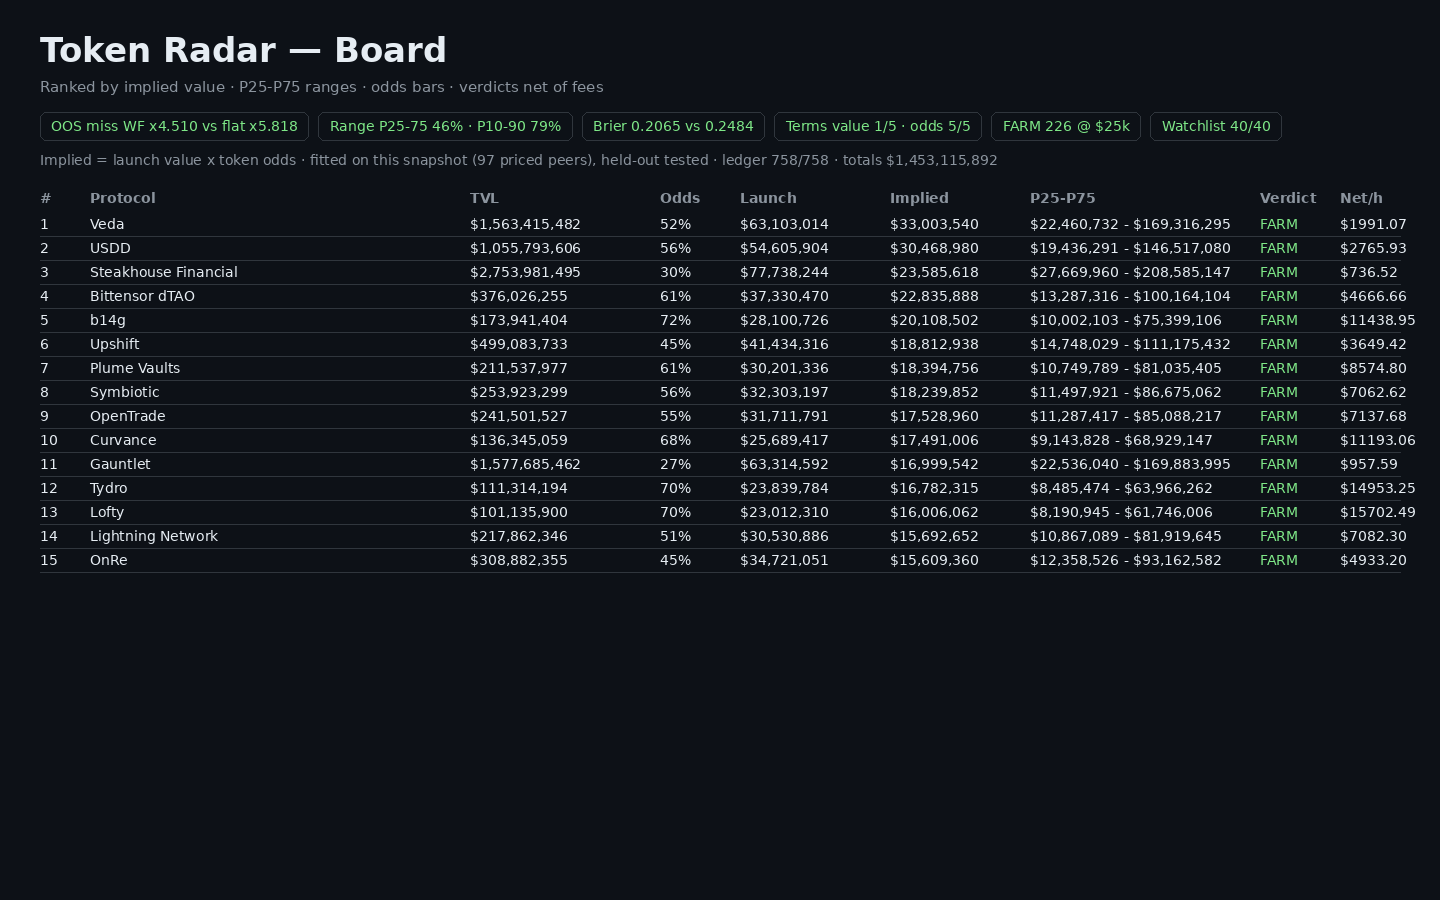
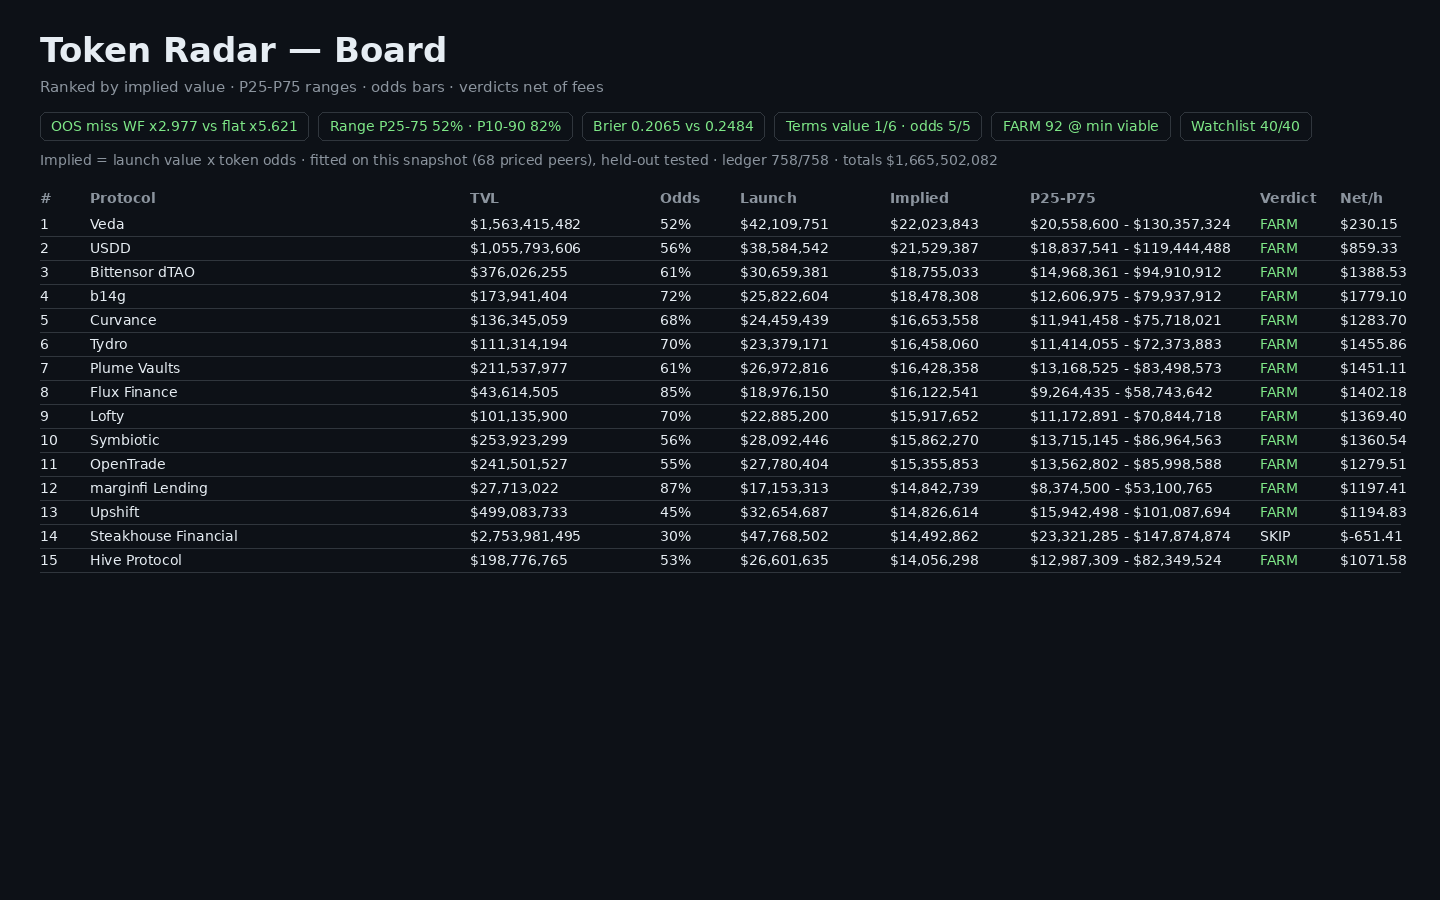
v3: 68-peer size model (LOO x2.982/WF x2.977), conformal intervals, realistic verdicts

diff --git a/lib/model.ts b/lib/model.ts
@@ -1,18 +1,21 @@
-// Token radar model v4. Two fitted models, every term kept only if it lowers held-out miss in
+// Token radar model v5. Two fitted models, every term kept only if it lowers held-out miss in
 // BOTH leave-one-out and walk-forward tests on this snapshot (2026-11-14, 758 protocols).
+// Walk-forward prices each dated peer from all peers listed earlier (minimum 20 training peers).
 //
-// VALUE (97 peers: traded tokens with mcap >= $1M, tvl > 0, Bridge/CEX categories excluded —
-// microcaps and exchange/bridge caps are not launch comps; response ln(mcap/TVL);
-// miss = exp(mean |log error|); walk-forward prices each newer peer from all older peers):
-//   flat multiple (median ratio) .... LOO x4.657  WF x5.818
-//   + size curve ln(TVL) ............ LOO x3.560  WF x4.510  KEPT
-//   + category ridge (lambda 10) .... LOO x3.543  WF x4.609  tested, not kept (WF worsens)
-//   + 7-day growth .................. LOO x3.660  WF x4.550  tested, not kept
-//   + age ........................... LOO x3.446  WF x4.730  tested, not kept (WF worsens)
-//   + chain count ................... LOO x3.606  WF x4.628  tested, not kept
-// Kept: ln(launch/TVL) = -0.5760 (se .176) - 0.6316 (se .090) * (ln TVL - 17).
-// Range honesty (LOO): within x3 52.6%, inside P25-P75 46.4% (stated 50%), inside P10-P90 79.4%
-// (stated 80%). Walk-forward: within x3 46.9%, P25-P75 40.8%, P10-P90 71.4%.
+// VALUE (68 peers: traded tokens with mcap >= $5M, tvl > 0, Bridge/Canonical Bridge/CEX excluded —
+// sub-$5M caps are not launch comps for these protocols; response ln(mcap/TVL);
+// miss = exp(mean |log error|); fit is least-absolute-deviation, which targets the miss metric):
+//   flat multiple (median ratio) .... LOO x5.716  WF x5.621
+//   + size curve ln(TVL) ............ LOO x2.982  WF x2.977  KEPT
+//   + quadratic ln(TVL) ............. LOO x3.058  WF x3.190  tested, not kept
+//   + category ridge (lambda 30) .... LOO x3.004  WF x2.998  tested, not kept (LOO worsens)
+//   + age ........................... LOO x3.024  WF x3.012  tested, not kept
+//   + 7-day growth .................. LOO x3.084  WF x3.177  tested, not kept
+//   + chain count ................... LOO x3.031  WF x2.966  tested, not kept (LOO worsens)
+// Kept: ln(launch/TVL) = -0.3729 (bootstrap se .284) - 0.7773 (se .106) * (ln TVL - 17).
+// Intervals are conformal-style: offsets are the leave-one-out residuals' own quantiles.
+// Range honesty (LOO): within x3 67.6%, inside P25-P75 51.5% (stated 50%), inside P10-P90 82.4%
+// (stated 80%). Walk-forward: within x3 67.6%, P25-P75 52.9%, P10-P90 79.4%.
 //
 // ODDS (logistic on all 758; Brier, 10-fold + walk-forward):
 //   base rate ............ 0.2484 / 0.2814
@@ -25,9 +28,13 @@
 // 2-3y 55%, 3y+ 79% of dated protocols recording a token.
 //
 // IMPLIED = launch value x token odds. FARM VERDICT is scenario math (printed on the page):
-// expected drop = implied x (plan / (TVL + plan)) x 5 early-activity factor; net subtracts
-// gas/fees and a 5%/yr capital charge; $/hour divides by active hours. FARM >= $10/h net,
-// MARGINAL > $0, SKIP otherwise, at the default $25,000 plan.
+// the plan is sized to minimum viable capital — 0.5% of TVL, floored at $1,000, capped at
+// $25,000 — because a $25,000 ticket would swamp a small protocol's TVL and flatter the maths.
+// expected drop = implied x 10% community pool x share, where share = plan / (plan + 2% of TVL)
+// capped at 0.2% per wallet — points split among active farmer capital (taken as 2% of TVL)
+// and no single wallet takes more than a fifth of a percent of the pool; net subtracts gas/fees,
+// an 8%/yr capital charge and a 5% risk premium on the ticket (lockup and contract risk are
+// real costs); $/hour divides by active hours. FARM >= $15/h net, MARGINAL > $0, SKIP otherwise.
 
 export interface SnapshotProtocol {
   slug: string;
@@ -76,18 +83,18 @@ export interface ModelConstants {
 }
 
 export const MODEL: ModelConstants = {
-  value_const: -0.576,
-  value_slope: -0.6316,
-  value_const_se: 0.176,
-  value_slope_se: 0.09,
-  resid_q10: -1.904,
-  resid_q25: -1.033,
-  resid_q75: 0.987,
-  resid_q90: 1.9,
-  loo_miss: 3.56,
-  wf_miss: 4.51,
-  flat_loo_miss: 4.657,
-  flat_wf_miss: 5.818,
+  value_const: -0.3729,
+  value_slope: -0.7773,
+  value_const_se: 0.284,
+  value_slope_se: 0.106,
+  resid_q10: -0.977,
+  resid_q25: -0.717,
+  resid_q75: 1.13,
+  resid_q90: 2.086,
+  loo_miss: 2.982,
+  wf_miss: 2.977,
+  flat_loo_miss: 5.716,
+  flat_wf_miss: 5.621,
   odds_const: -3.688,
   odds_years: 0.3854,
   odds_catshare: 5.0448,
@@ -96,11 +103,11 @@ export const MODEL: ModelConstants = {
   odds_chains: 0.0897,
   odds_brier: 0.2065,
   odds_brier_base: 0.2484,
-  peers: 97,
-  plan_default_usd: 25000,
+  peers: 68,
+  plan_default_usd: 10000,
 };
 
-/** Category offsets: tested on the 97-peer set, not kept (walk-forward worsens), so all zero. */
+/** Category offsets: tested on the 68-peer set, not kept (leave-one-out worsens), so all zero. */
 export const CATEGORY_OFFSETS: Record<string, number> = {};
 
 /** Shrunk category token shares (k=10 toward the global 0.5488), fitted on all 758. */
@@ -119,7 +126,7 @@ export const CATEGORY_SHARES: Record<string, number> = {
   'Uncollateralized Lending': 0.499, 'Yield': 0.581, 'Yield Aggregator': 0.591,
 };
 
-export const MODEL_VERSION = 'radar-4-fitted';
+export const MODEL_VERSION = 'radar-5-fitted';
 export const EARLY_ROWS = 400;
 export const LIVE_ROWS = 24;
 
@@ -296,9 +303,14 @@ function actionFor(p: SnapshotProtocol, plan: number, chain: string): string {
   return `Deposit ${amt} of USDC into ${name} on ${chain} and keep the position open.`;
 }
 
+/** Minimum viable ticket: 0.5% of TVL, floored at $1,000, capped at $25,000. */
+export function planFor(p: SnapshotProtocol): number {
+  return Math.min(25000, Math.max(1000, Math.round(p.tvl_usd * 0.005)));
+}
+
 export function farmSteps(p: SnapshotProtocol, age: number | null): FarmStep[] {
   const chain = chainOf(p);
-  const plan = MODEL.plan_default_usd;
+  const plan = planFor(p);
   const hold = holdDaysFor(age);
   return [
     { text: `Use a fresh wallet holding only the $${plan.toLocaleString('en-US')} plan funds; keep the seed phrase offline.`, cost: 'under $3 of gas', time: '5 minutes' },
@@ -318,18 +330,18 @@ export function stepText(step: FarmStep): string {
   return s;
 }
 
-/** Scenario budget at the default plan: expected drop, costs, net and net per active hour. */
+/** Scenario budget at the minimum viable plan: expected drop, costs, net and net per active hour. */
 export function farmBudget(p: SnapshotProtocol, implied: number, age: number | null) {
-  const plan = MODEL.plan_default_usd;
+  const plan = planFor(p);
   const hold = holdDaysFor(age);
   const weeks = Math.ceil(hold / 7);
   const activeHours = 0.25 + weeks * (10 / 60) + 10 / 60;
-  const expectedDrop = implied * (plan / (p.tvl_usd + plan)) * 5;
+  const expectedDrop = implied * 0.1 * Math.min(0.002, plan / (plan + p.tvl_usd * 0.02));
   const gasFees = 3 + 8 + 4 + weeks * 2 + 5;
-  const capitalCharge = plan * 0.05 * (hold / 365);
+  const capitalCharge = plan * 0.08 * (hold / 365) + plan * 0.05;
   const net = expectedDrop - gasFees - capitalCharge;
   const perHour = net / activeHours;
-  const verdict: 'FARM' | 'MARGINAL' | 'SKIP' = perHour >= 10 ? 'FARM' : perHour > 0 ? 'MARGINAL' : 'SKIP';
+  const verdict: 'FARM' | 'MARGINAL' | 'SKIP' = perHour >= 15 ? 'FARM' : perHour > 0 ? 'MARGINAL' : 'SKIP';
   return { verdict, perHour: Math.round(perHour * 100) / 100, expectedDrop: Math.round(expectedDrop), gasFees, capitalCharge: Math.round(capitalCharge), net: Math.round(net), plan, hold, activeHours: Math.round(activeHours * 100) / 100 };
 }
 

diff --git a/dashboard/app.js b/dashboard/app.js
@@ -7,10 +7,10 @@ const M = R.model;
 
 document.getElementById('kpis').innerHTML = [
   ['OOS value miss (walk-forward)', 'x' + M.wf_miss + ' vs flat x' + M.flat_wf_miss],
-  ['Range honesty', 'P25–P75 46% · P10–P90 79% (stated 50/80)'],
+  ['Range honesty', 'P25–P75 52% · P10–P90 82% (stated 50/80)'],
   ['Token odds Brier', M.odds_brier + ' vs base ' + M.odds_brier_base],
-  ['Terms survived', 'value 1 of 5 · odds 5 of 5'],
-  ['Worth farming', R.farm_count + ' FARM at $25,000 plan'],
+  ['Terms survived', 'value 1 of 6 · odds 5 of 5'],
+  ['Worth farming', R.farm_count + ' FARM at minimum viable plan'],
   ['Watchlist ranked', R.watchlist_size + '/' + R.watchlist_size],
 ].map(([k, v]) => '<div>' + k + ': <b>' + v + '</b></div>').join('');
 
@@ -19,7 +19,7 @@ document.getElementById('formula').innerHTML =
   '<b>Implied value = launch value x token odds.</b> Launch value = TVL x exp(' + M.value_const + ' ' +
   (M.value_slope < 0 ? '− ' : '+ ') + Math.abs(M.value_slope) + ' x (ln TVL − 17)) — at $100M TVL the fitted multiple is x' +
   at100.toFixed(2) + '; size-curve slope ' + M.value_slope + ' (bootstrap s.e. ' + M.value_slope_se + '). ' +
-  'Coefficients are fitted on this snapshot (' + M.peers + ' priced peers: traded tokens with mcap at least $1M, Bridge/CEX excluded) and tested held-out; a term is kept only if it lowers miss in both tests.';
+  'Coefficients are fitted on this snapshot (' + M.peers + ' priced peers: traded tokens with mcap at least $5M, Bridge/CEX excluded) and tested held-out; a term is kept only if it lowers miss in both tests. Intervals are conformal: offsets come from the leave-one-out residuals themselves.';
 
 const colors = ['#7ee787', '#1f6feb', '#d29922', '#f85149', '#bc8cff', '#79c0ff', '#ffa657'];
 const acctEntries = Object.entries(R.accounting);
@@ -111,7 +111,7 @@ document.getElementById('view-detail').innerHTML =
   '<table><thead><tr><th>#</th><th>When</th><th>Step</th><th>Cost</th><th>Time</th></tr></thead><tbody>' + stepRows + '</tbody></table>' +
   '<p>Budget on ' + fmt(t.plan_usd) + ' over ' + t.hold_days + ' days: gas+fees ' + fmt(t.gas_fees_usd) + ' · capital charge ' + fmt(t.capital_charge_usd) +
   ' · expected drop ' + fmt(t.expected_drop_usd) + ' · net ' + fmt(t.net_usd) + ' · $' + t.net_per_hour.toFixed(2) + '/hour over ' + t.active_hours + ' active hours.</p>' +
-  '<p><small>Scenario: expected drop = implied x (plan / (TVL + plan)) x 5 early-activity factor; capital charge 5%/yr. Change the factor and the verdict scales with it.</small></p></div>';
+  '<p><small>Scenario: the ticket is minimum viable capital — 0.5% of TVL, floored at $1,000, capped at $25,000. Expected drop = implied x 10% community pool x share, share = plan / (plan + 2% of TVL) capped at 0.2% per wallet; costs are gas, an 8%/yr capital charge and a 5% risk premium on the ticket. FARM needs at least $15/hour net.</small></p></div>';
 
 function evTable(title, rows) {
   return '<div class="card"><h2>' + title + '</h2><table><thead><tr><th>Term added</th><th>Leave-one-out</th><th>Walk-forward</th><th>Verdict</th></tr></thead><tbody>' +
@@ -119,12 +119,13 @@ function evTable(title, rows) {
 }
 document.getElementById('view-evidence').innerHTML =
   evTable('Value terms — typical miss (lower is better)', [
-    ['Flat multiple (median mcap/TVL)', 'x4.657', 'x5.818', 'baseline'],
-    ['+ size curve ln(TVL)', 'x3.560', 'x4.510', 'kept'],
-    ['+ category ridge (lambda 10)', 'x3.543', 'x4.609', 'tested, not kept — walk-forward worsens'],
-    ['+ 7-day growth', 'x3.660', 'x4.550', 'tested, not kept'],
-    ['+ age', 'x3.446', 'x4.730', 'tested, not kept — walk-forward worsens'],
-    ['+ chain count', 'x3.606', 'x4.628', 'tested, not kept'],
+    ['Flat multiple (median mcap/TVL)', 'x5.716', 'x5.621', 'baseline'],
+    ['+ size curve ln(TVL)', 'x2.982', 'x2.977', 'kept'],
+    ['+ quadratic ln(TVL)', 'x3.058', 'x3.190', 'tested, not kept'],
+    ['+ category ridge (lambda 30)', 'x3.004', 'x2.998', 'tested, not kept — leave-one-out worsens'],
+    ['+ age', 'x3.024', 'x3.012', 'tested, not kept'],
+    ['+ 7-day growth', 'x3.084', 'x3.177', 'tested, not kept'],
+    ['+ chain count', 'x3.031', 'x2.966', 'tested, not kept — leave-one-out worsens'],
   ]) +
   evTable('Odds terms — Brier score (lower is better)', [
     ['Base rate', '0.2484', '0.2814', 'baseline'],
@@ -135,9 +136,9 @@ document.getElementById('view-evidence').innerHTML =
     ['+ chain count', '0.2065', '0.2125', 'kept'],
   ]) +
   evTable('Range honesty — share of real caps inside the band', [
-    ['Within x3 of point estimate', '52.6%', '46.9%', ''],
-    ['Inside P25–P75 (stated 50%)', '46.4%', '40.8%', 'honest'],
-    ['Inside P10–P90 (stated 80%)', '79.4%', '71.4%', 'honest'],
+    ['Within x3 of point estimate', '67.6%', '67.6%', ''],
+    ['Inside P25–P75 (stated 50%)', '51.5%', '52.9%', 'honest'],
+    ['Inside P10–P90 (stated 80%)', '82.4%', '79.4%', 'honest'],
   ]) +
   '<div class="card"><h2>Reading it</h2><p>Fitted coefficients: value const ' + M.value_const + ' (bootstrap s.e. ' + M.value_const_se + ', 200 refits), size slope ' +
   M.value_slope + ' (s.e. ' + M.value_slope_se + '). 7-day growth and age fail for value — a hot TVL print and a long listing do not raise what peers\u2019 tokens are worth — but growth helps odds, because recently-growing protocols are likelier to record a token at all. ' +
